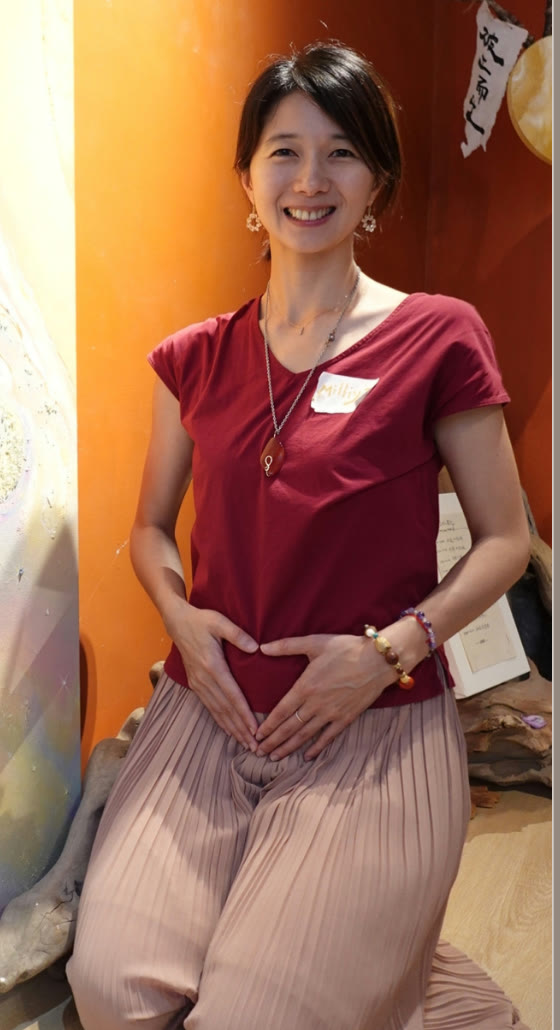
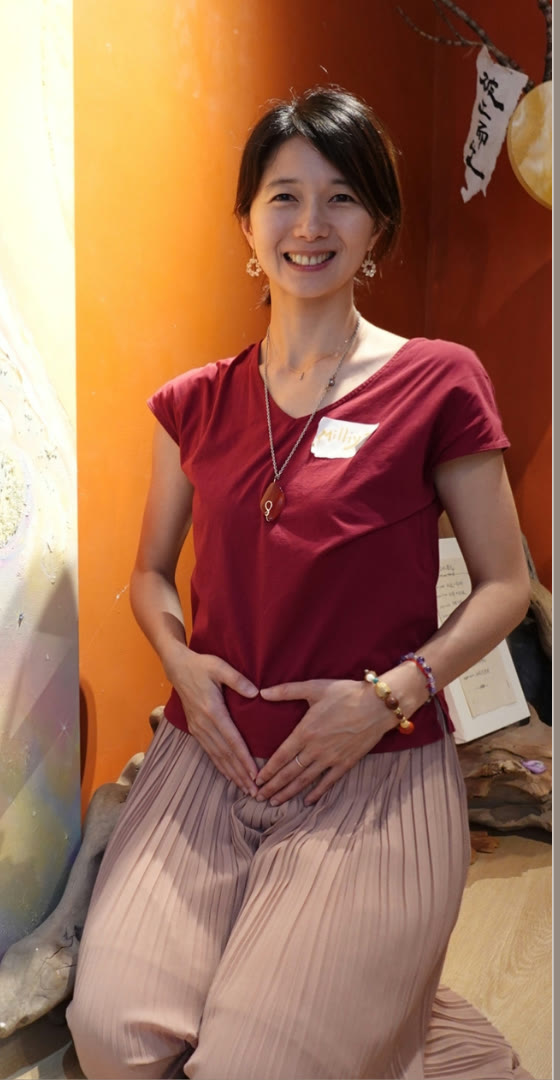
欣妙 profile 頭部再降（多留頭上空間，object-position 3%）

diff --git a/index.html b/index.html
@@ -487,7 +487,7 @@
     </p>
     <div class="team">
       <div class="member">
-        <div class="ava"><img src="assets/team-milliya.jpg" alt="欣妙"></div>
+        <div class="ava"><img src="assets/team-milliya.jpg" alt="欣妙" style="object-position:center 3%"></div>
         <h3>欣妙</h3>
         <a class="ig" href="https://instagram.com/birth.with.milliya" target="_blank" rel="noopener">@birth.with.milliya</a>
       </div>